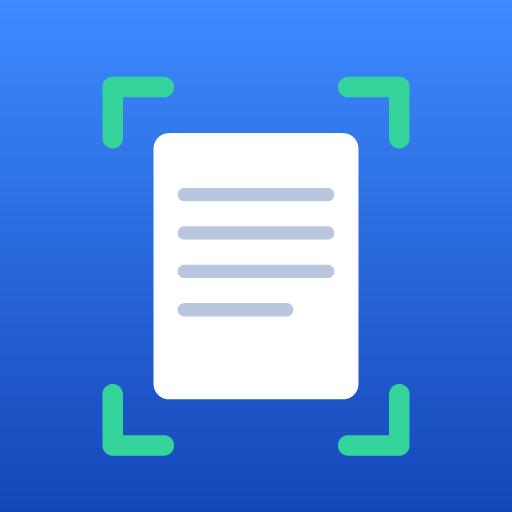
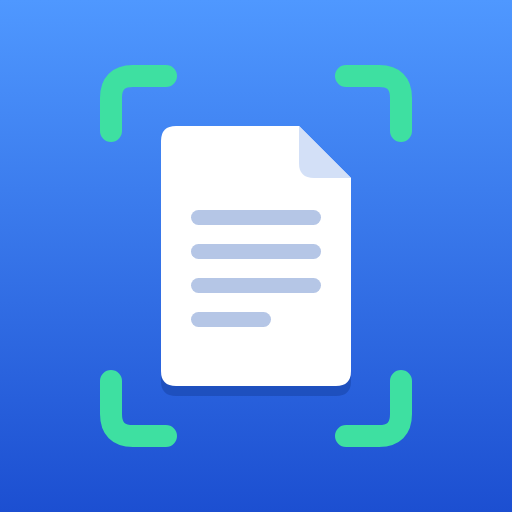
Neues App-Symbol: Blatt mit Scan-Rahmen
Das Symbol entsteht jetzt aus der Vorlage icons/icon.svg;
tools/make-icons.mjs rendert daraus die PNG-Größen über Chrome.
Offline-Cache auf v2, damit installierte Apps die neuen Icons laden.

diff --git a/sw.js b/sw.js
@@ -1,7 +1,7 @@
 // Service Worker: hält die App offline verfügbar.
 // Große Bibliotheken kommen aus dem Cache, alles andere bevorzugt frisch aus dem Netz.
 
-const CACHE = 'dokuscan-v1';
+const CACHE = 'dokuscan-v2';
 const APP_FILES = [
   './',
   './index.html',

diff --git a/README.md b/README.md
@@ -82,6 +82,7 @@ Danach `http://localhost:8765` im Browser öffnen. Am PC wird dabei die Webcam g
 | `js/pdf.js` | PDF-Erstellung und Teilen |
 | `js/geometry.js` | Rechenhilfen für Vierecke |
 | `sw.js`, `manifest.webmanifest` | Offline-Betrieb und Home-Bildschirm-App |
+| `icons/` | App-Symbol: Vorlage `icon.svg`, daraus erzeugt mit `node tools/make-icons.mjs` die PNGs |
 | `vendor/` | OpenCV.js 4.10 (Bilderkennung) und jsPDF 4.2 (PDF), jeweils mit Lizenz |
 | `tools/` | Icon-Erzeugung, lokaler Testserver |
 | `test/` | Erkennungstest |
